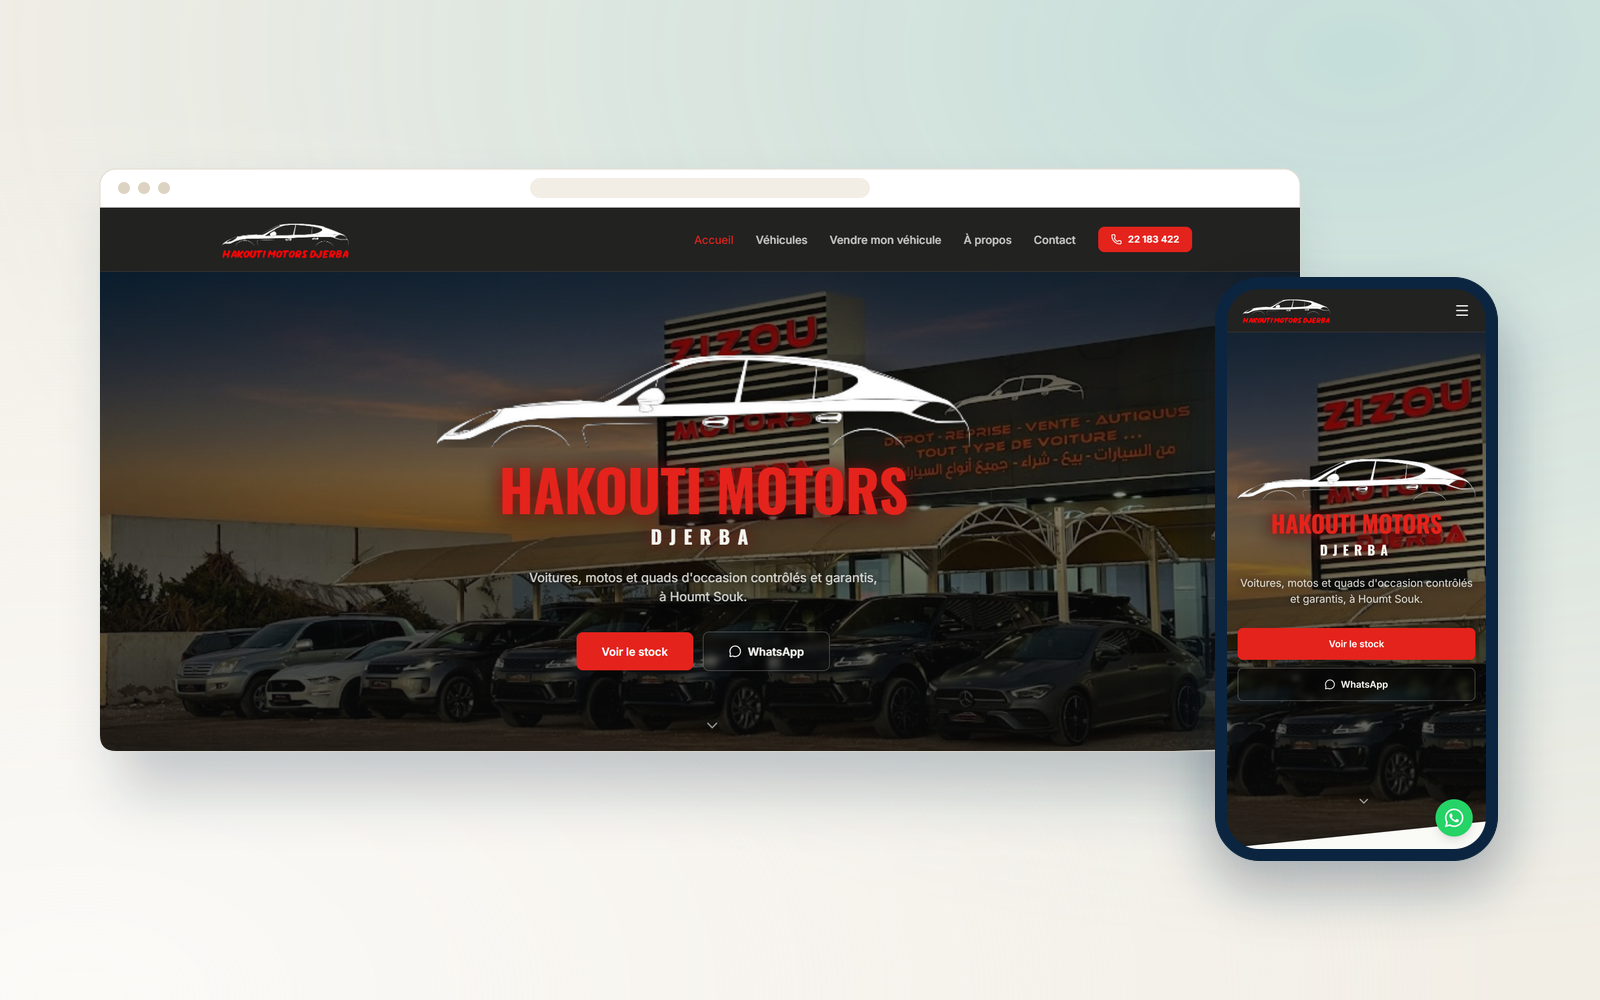
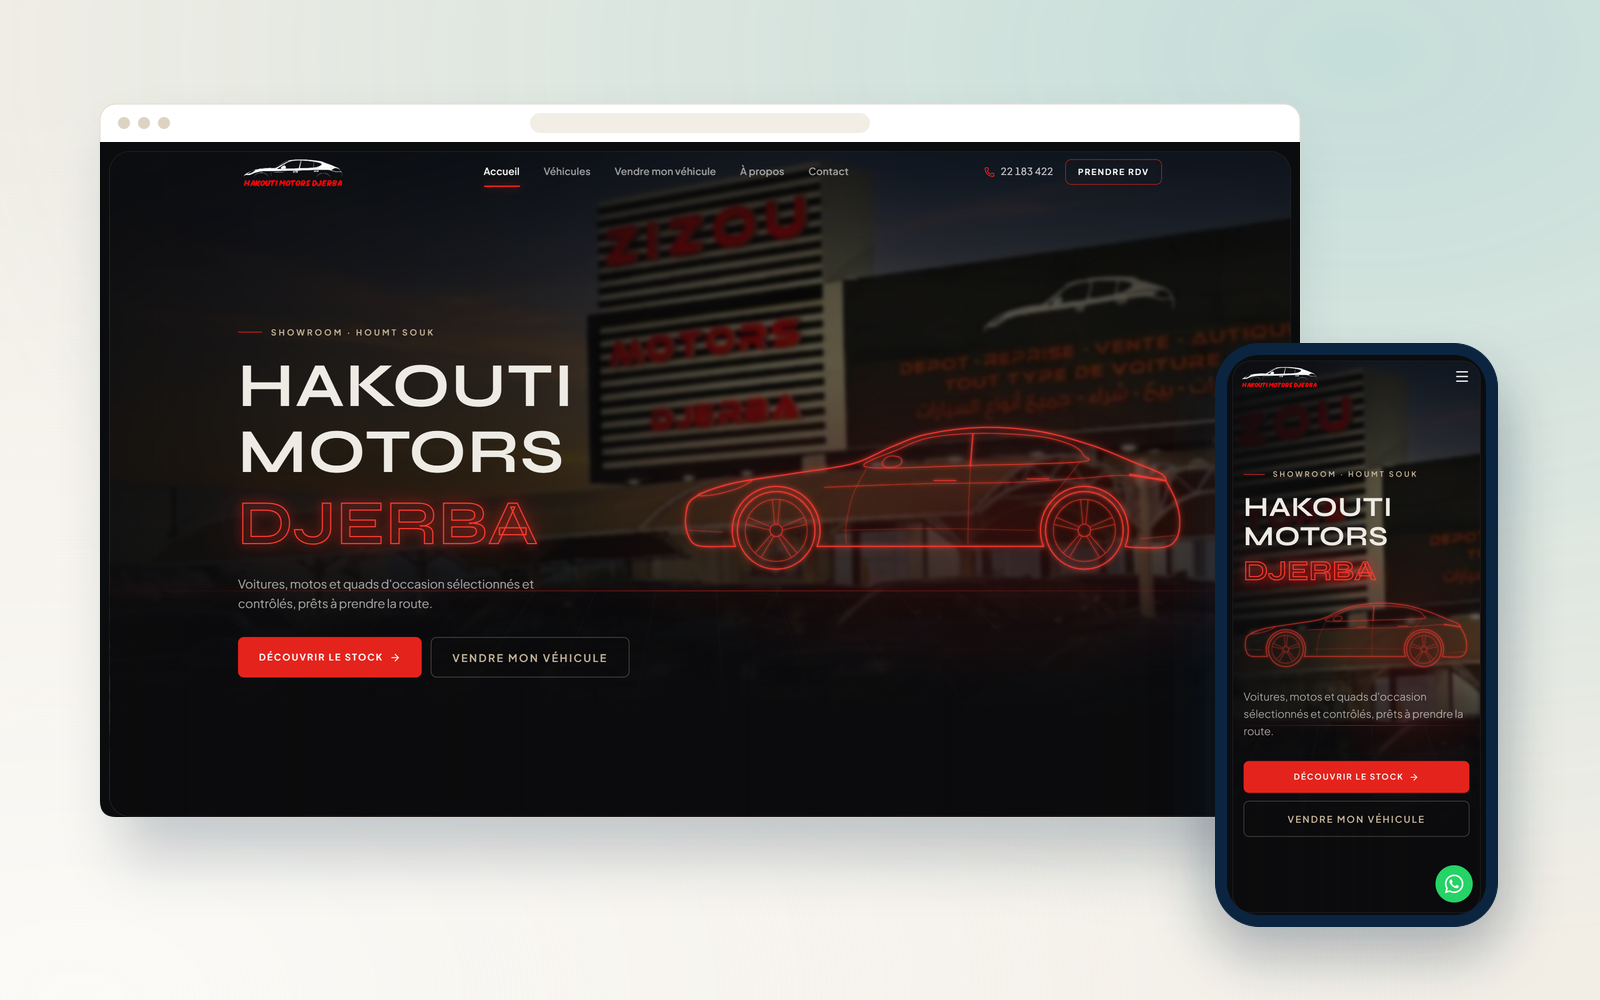
Captures mises à jour : nouveau design du site

diff --git a/README.md b/README.md
@@ -47,7 +47,9 @@ Le concessionnaire publie déjà ses véhicules sur Instagram : plutôt que de l
 ### Mobile
 
 <p align="center">
-  <img src="images/mobile-1.png" alt="Hakouti Motors Djerba — capture mobile 1" width="40%">
+  <img src="images/mobile-1.png" alt="Hakouti Motors Djerba — capture mobile 1" width="31%">
+  <img src="images/mobile-2.png" alt="Hakouti Motors Djerba — capture mobile 2" width="31%">
+  <img src="images/mobile-3.png" alt="Hakouti Motors Djerba — capture mobile 3" width="31%">
 </p>
 
 ## Fiche
